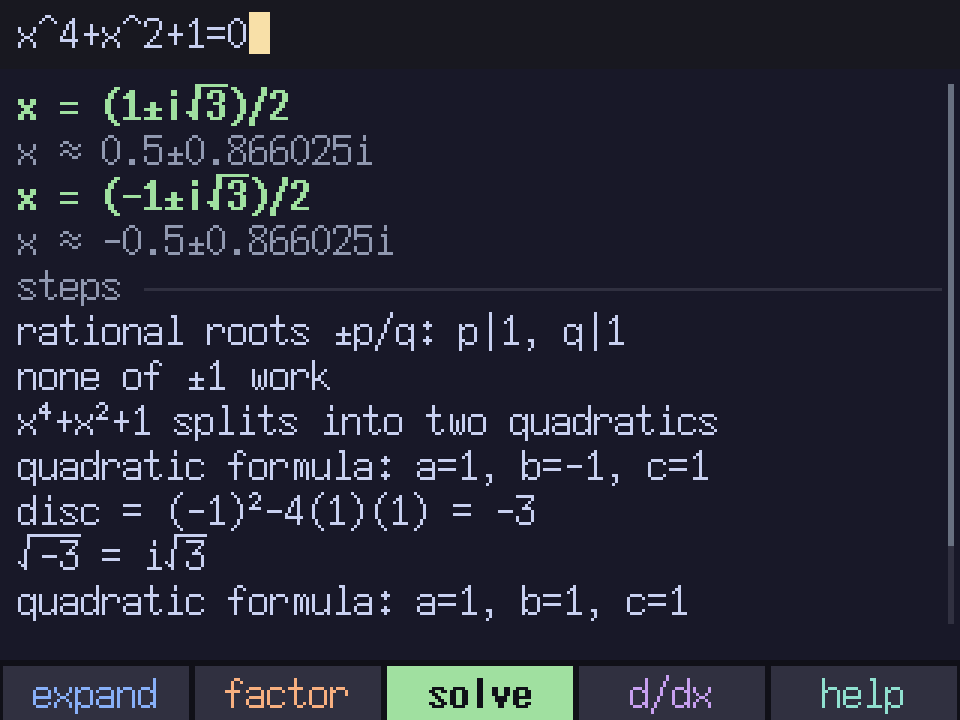
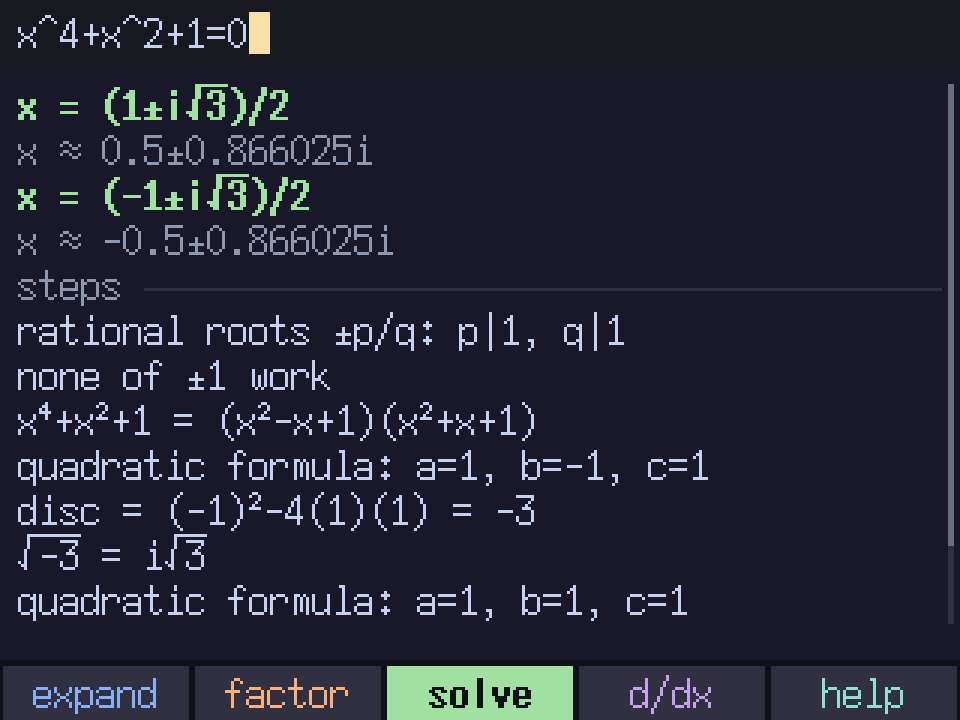
quartic split step names the two quadratics

Changed region(s): [[0.1875, 0.55, 0.75, 0.6111]]

diff --git a/src/cas.c b/src/cas.c
@@ -2227,6 +2227,19 @@ static void addquad(int32_t a, int32_t b, int32_t c, int mult)
     quads[nquads++].mult = mult;
 }
 
+static void wquad(int32_t a, int32_t b, int32_t c, int v)
+{
+    uint8_t e[NV] = { 0 };
+    wputc('(');
+    e[v] = 2;
+    wmonoi(a, e, 1);
+    e[v] = 1;
+    if (b) wmonoi(b, e, 0);
+    e[v] = 0;
+    if (c) wmonoi(c, e, 0);
+    wputc(')');
+}
+
 /* an integer quartic ip with no rational roots as (p1x^2+q1x+r1)(p2x^2+q2x+r2), if it splits over the integers */
 static int quartic_split(int v)
 {
@@ -2266,7 +2279,10 @@ static int quartic_split(int v)
                 addquad(p2, q2, r2, 1);
                 begin(L_STEP);
                 wip(v);
-                say(MORE, " splits into two quadratics");
+                wputs(" = ");
+                wquad(p1, q1, r1, v);
+                wquad(p2, q2, r2, v);
+                end();
                 ideg = 0;
                 ip[0] = 1;
                 return 1;
@@ -2775,15 +2791,7 @@ static void factor_into(const Poly *p, char *buf, int cap)
     }
     for (i = 0; i < nbq; i++) wbq(i, v);
     for (i = 0; i < nquads; i++) {
-        uint8_t e[NV] = { 0 };
-        wputc('(');
-        e[v] = 2;
-        wmonoi(quads[i].a, e, 1);
-        e[v] = 1;
-        if (quads[i].b) wmonoi(quads[i].b, e, 0);
-        e[v] = 0;
-        if (quads[i].c) wmonoi(quads[i].c, e, 0);
-        wputc(')');
+        wquad(quads[i].a, quads[i].b, quads[i].c, v);
         if (quads[i].mult > 1) {
             say(MORE | OPEN, "^%d", quads[i].mult);
         }

diff --git a/test/test.c b/test/test.c
@@ -194,6 +194,7 @@ int main(int argc, char **argv)
     check(S, "0>0", "no solution");
     check(S, "0>=0", "all real numbers");
     has_step(S, "x^2-x-6>0", "(-" G_INF ",-2): +");
+    has_step(S, "x^4+x^2+1=0", "x^4+x^2+1 = (x^2-x+1)(x^2+x+1)");
 
     /* rational expressions */
     check(E, "1/(x-1)+1/(x+1)", "= 2x/(x^2-1) | x " G_NE " -1, 1");
